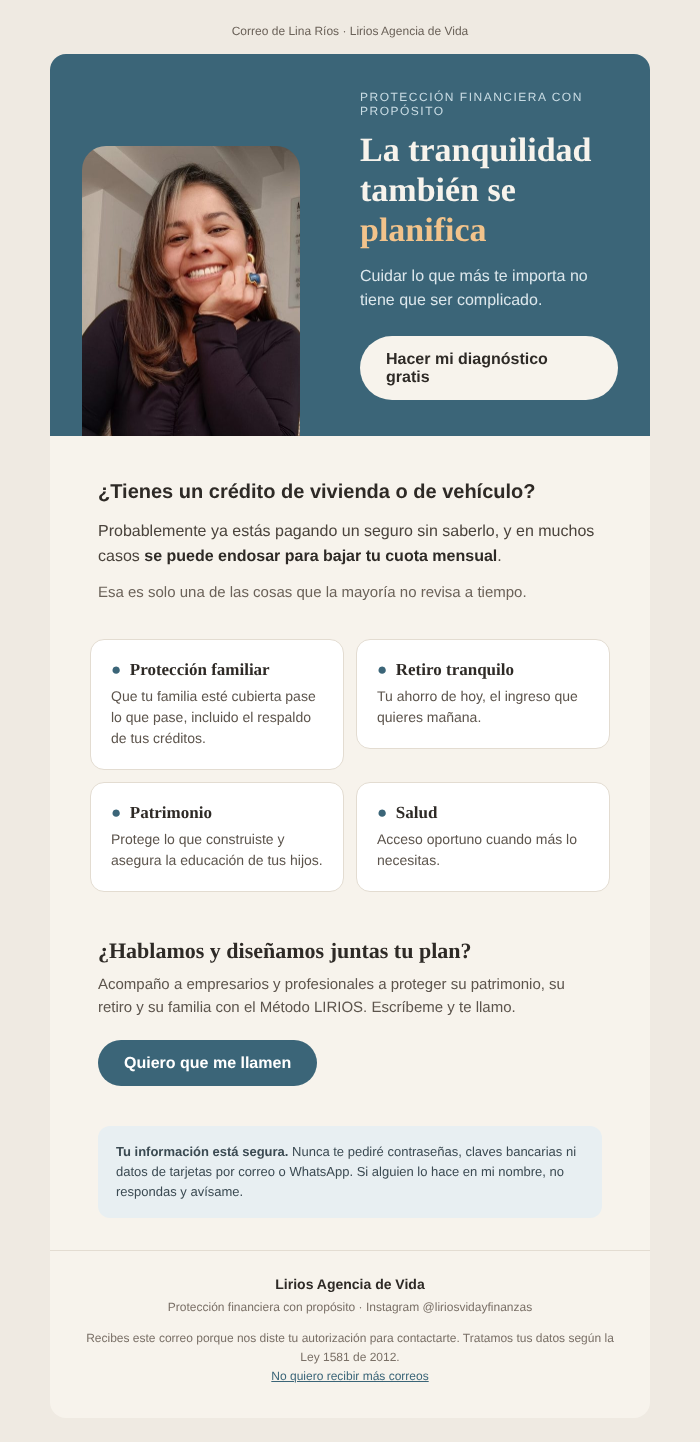
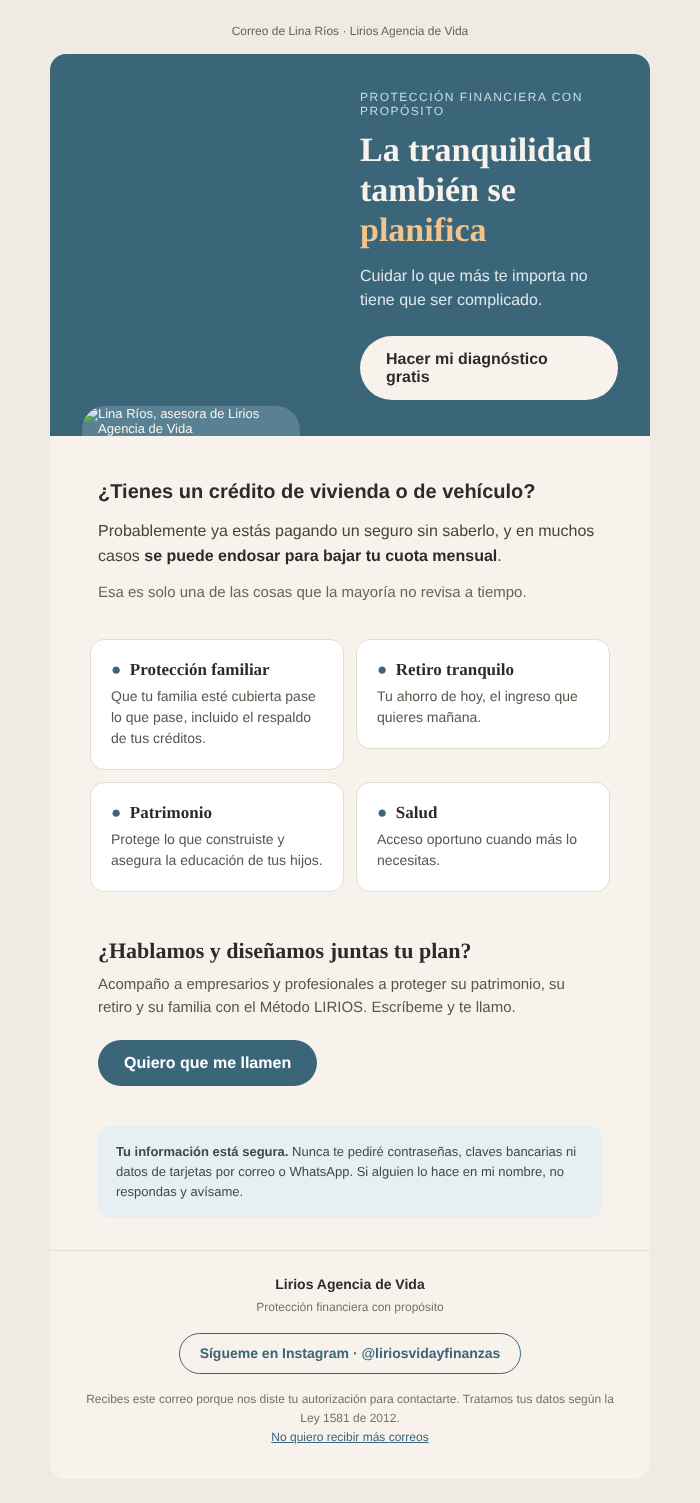
feat: botón de Instagram en el pie del correo de Lirios
Claude-Session: https://claude.ai/code/session_014iEGqFw3Ck9VmX49r1fjd5

Changed region(s): [[0.06, 0.0624, 0.93, 0.9674]]

diff --git a/campanas/lirios-agencia-de-vida/correo-campana.html b/campanas/lirios-agencia-de-vida/correo-campana.html
@@ -134,7 +134,12 @@
     <!-- 6. PIE: identidad, datos y baja (obligatorio por ley) -->
     <tr><td align="center" style="padding:24px 32px 32px;border-top:1px solid #E3DCD1;font-family:Arial,Helvetica,sans-serif;font-size:12px;line-height:19px;color:#7A7067;">
       <p style="margin:0 0 4px;font-size:14px;font-weight:700;color:#2E2A26;">Lirios Agencia de Vida</p>
-      <p style="margin:0 0 12px;">Protección financiera con propósito · Instagram @liriosvidayfinanzas</p>
+      <p style="margin:0 0 16px;">Protección financiera con propósito</p>
+      <table role="presentation" align="center" cellpadding="0" cellspacing="0" border="0" style="margin:0 auto 16px;"><tr>
+        <td style="border-radius:999px;border:1px solid #3B6578;">
+          <a href="https://www.instagram.com/liriosvidayfinanzas/" style="display:inline-block;padding:10px 20px;font-family:Arial,Helvetica,sans-serif;font-size:14px;font-weight:700;color:#3B6578;text-decoration:none;border-radius:999px;">Sígueme en Instagram · @liriosvidayfinanzas</a>
+        </td>
+      </tr></table>
       <p style="margin:0;">Recibes este correo porque nos diste tu autorización para contactarte. Tratamos tus datos según la Ley 1581 de 2012.<br>
       <a href="{{ unsubscribe }}" style="color:#3B6578;text-decoration:underline;">No quiero recibir más correos</a></p>
     </td></tr>
